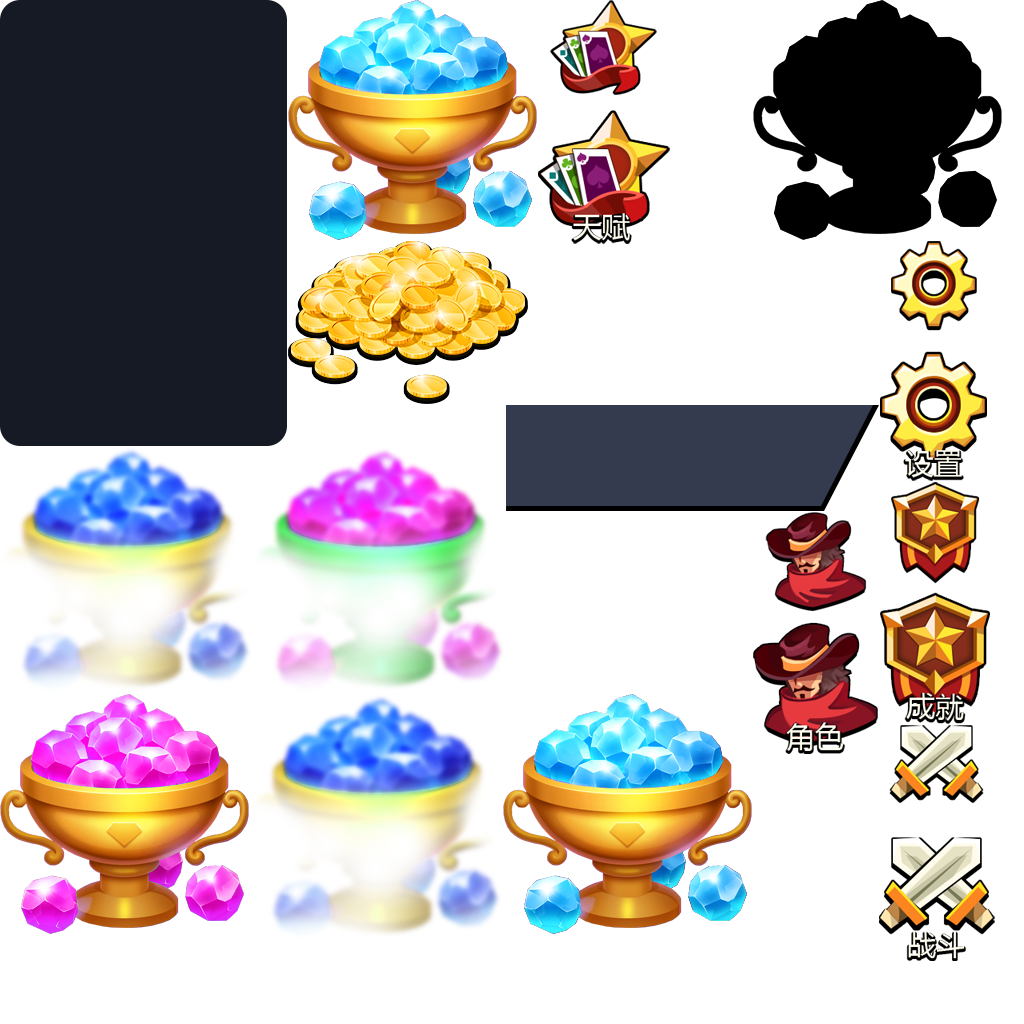
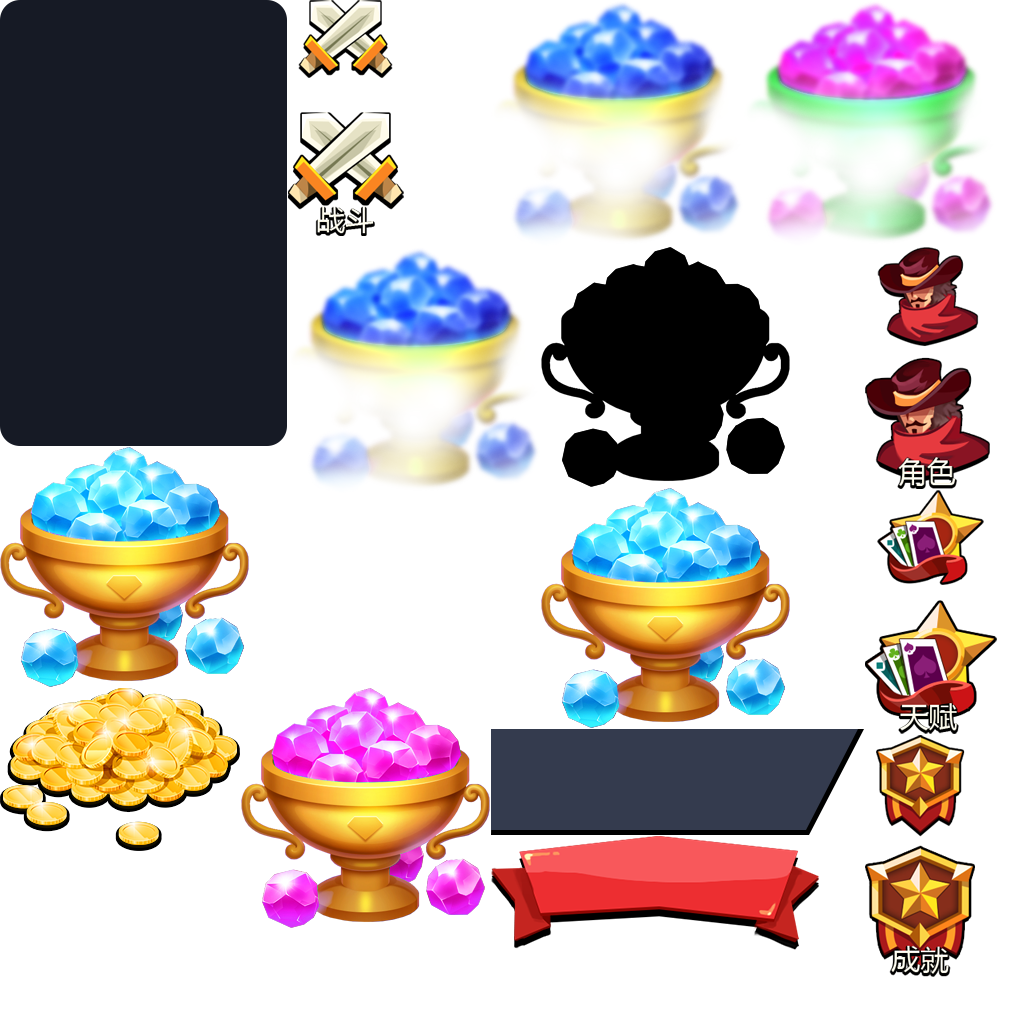
no message

diff --git a/Game3D01/src/ui/layaMaxUI.ts b/Game3D01/src/ui/layaMaxUI.ts
@@ -485,6 +485,34 @@ export module ui.test {
         }
     }
     REG("ui.test.newhandUI",newhandUI);
+    export class paihangUI extends Dialog {
+		public guanbi:Laya.Button;
+		public tab:Laya.Tab;
+		public list:Laya.List;
+		public wxOpen:laya.ui.WXOpenDataViewer;
+		public myText:laya.display.Text;
+        public static  uiView:any ={"type":"Dialog","props":{"width":750,"isShowEffect":false,"height":1334},"compId":2,"child":[{"type":"Image","props":{"y":109,"x":34,"width":682,"skin":"main/fuhuodi2.jpg","sizeGrid":"81,70,76,69","height":1073},"compId":3},{"type":"Button","props":{"y":123,"x":617,"width":80,"var":"guanbi","stateNum":1,"skin":"main/btn_guanbi.png","name":"close","height":80},"compId":4},{"type":"Sprite","props":{"y":119,"x":201,"texture":"main/changhong2.png"},"compId":5},{"type":"Sprite","props":{"y":119,"x":265,"texture":"paihang/paihangzi.png"},"compId":6},{"type":"Tab","props":{"y":252,"x":57,"var":"tab","stateNum":2,"space":30,"skin":"main/btn_anniu.png","labels":","},"compId":7},{"type":"Image","props":{"y":357,"x":57,"width":628,"skin":"main/tishilan.png","sizeGrid":"16,14,22,14","height":765,"alpha":0.6},"compId":11},{"type":"List","props":{"y":358,"x":0,"width":759,"var":"list","height":732},"compId":13,"child":[{"type":"paihang1","props":{"y":0,"x":0,"renderType":"render","runtime":"ui.test.paihang1UI"},"compId":14}]},{"type":"WXOpenDataViewer","props":{"y":358,"x":60,"width":627,"var":"wxOpen","iconSign":"wx","height":763,"runtime":"laya.ui.WXOpenDataViewer"},"compId":15},{"type":"Sprite","props":{"y":262.5,"x":116,"texture":"paihang/haoyouzi.png"},"compId":16},{"type":"Sprite","props":{"y":262.5,"x":339,"texture":"paihang/shijiezi.png"},"compId":18},{"type":"Text","props":{"y":1133,"x":525.5224609375,"var":"myText","text":"我的名次:11","fontSize":30,"color":"#ffffff","runtime":"laya.display.Text"},"compId":19}],"loadList":["main/fuhuodi2.jpg","main/btn_guanbi.png","main/changhong2.png","paihang/paihangzi.png","main/btn_anniu.png","main/tishilan.png","paihang/haoyouzi.png","paihang/shijiezi.png"],"loadList3D":[]};
+        constructor(){ super()}
+        createChildren():void {
+            super.createChildren();
+            this.createView(paihangUI.uiView);
+        }
+    }
+    REG("ui.test.paihangUI",paihangUI);
+    export class paihang1UI extends View {
+		public paiming:Laya.Image;
+		public touxiang:Laya.Image;
+		public mingzi:laya.display.Text;
+		public goldFc:Laya.FontClip;
+		public fc1:Laya.FontClip;
+        public static  uiView:any ={"type":"View","props":{"width":750,"height":92},"compId":2,"child":[{"type":"Image","props":{"y":3.5,"x":68,"var":"paiming","skin":"paihang/yiming.png"},"compId":3},{"type":"Image","props":{"y":4.5,"x":144,"width":77,"var":"touxiang","height":77},"compId":4},{"type":"Sprite","props":{"y":90,"x":71,"width":600,"texture":"paihang/xiaoxi.png"},"compId":5},{"type":"Text","props":{"y":25,"x":224,"width":283,"var":"mingzi","text":"玩家弓箭七个字","height":36,"fontSize":36,"color":"#ffffff","bold":true,"runtime":"laya.display.Text"},"compId":6},{"type":"FontClip","props":{"y":22,"x":487.5,"width":364,"var":"goldFc","value":"9999","spaceX":0,"skin":"main/clipshuzi.png","sheet":"123456 7890-+ /:%.ab","scaleY":0.4,"scaleX":0.4,"height":113,"align":"right"},"compId":7},{"type":"Sprite","props":{"y":22,"x":632.5,"texture":"paihang/fen.png"},"compId":8},{"type":"FontClip","props":{"y":23,"x":29.5,"width":364,"var":"fc1","value":"10","spaceX":0,"skin":"main/clipshuzi.png","sheet":"123456 7890-+ /:%.ab","scaleY":0.4,"scaleX":0.4,"height":113,"align":"center"},"compId":9}],"loadList":["paihang/yiming.png","paihang/xiaoxi.png","main/clipshuzi.png","paihang/fen.png"],"loadList3D":[]};
+        constructor(){ super()}
+        createChildren():void {
+            super.createChildren();
+            this.createView(paihang1UI.uiView);
+        }
+    }
+    REG("ui.test.paihang1UI",paihang1UI);
     export class RankCellUI extends View {
 		public bg:Laya.Image;
 		public di:Laya.Image;
@@ -746,7 +774,8 @@ export module ui.test {
 		public btn1Fc:Laya.FontClip;
 		public AdLingBtn:Laya.Button;
 		public btn2Fc:Laya.FontClip;
-        public static  uiView:any ={"type":"Dialog","props":{"width":750,"isModal":true,"height":1100},"compId":2,"child":[{"type":"Light","props":{"y":481.5,"x":356,"var":"light","scaleY":2,"scaleX":2,"anchorY":0.5,"anchorX":0.5,"runtime":"ui.test.LightUI"},"compId":30},{"type":"Image","props":{"y":37,"x":34,"width":682,"skin":"main/fuhuodi2.jpg","sizeGrid":"81,70,76,69","height":931},"compId":3},{"type":"Image","props":{"y":223,"x":174,"skin":"main/jiangbi.png","scaleY":0.8,"scaleX":0.8},"compId":7},{"type":"Image","props":{"y":459,"x":55,"width":642,"skin":"main/tishilan.png","sizeGrid":"28,18,26,20","height":406,"alpha":0.3},"compId":9},{"type":"FontClip","props":{"y":313,"x":397,"width":535,"var":"goldFc","value":"99999","spaceX":0,"skin":"main/clipshuzi.png","sheet":"123456 7890-+ /:%.ab","scaleY":0.4,"scaleX":0.4,"height":113,"align":"left"},"compId":10},{"type":"Button","props":{"y":583,"x":378,"width":434,"var":"LingBtn","stateNum":1,"skin":"main/btn_huang.png","sizeGrid":"0,19,0,18","height":94,"anchorY":0.5,"anchorX":0.5},"compId":11,"child":[{"type":"Sprite","props":{"y":17,"x":62,"texture":"timegold/shenglilingqu.png"},"compId":13},{"type":"FontClip","props":{"y":15,"x":157,"var":"btn1Fc","value":"99999","skin":"main/clipshuzi.png","sheet":"123456 7890ab cdef","scaleY":0.4,"scaleX":0.4,"align":"left"},"compId":14},{"type":"Sprite","props":{"y":10,"x":329,"texture":"main/jinbi.png"},"compId":31}]},{"type":"Button","props":{"y":732,"x":380,"width":439,"var":"AdLingBtn","stateNum":1,"skin":"main/btn_zi.png","sizeGrid":"0,31,0,36","height":94,"anchorY":0.5,"anchorX":0.5},"compId":15,"child":[{"type":"FontClip","props":{"y":16,"x":154,"width":451,"var":"btn2Fc","value":"99999","spaceX":-4,"skin":"main/clipshuzi.png","sheet":"123456 7890ab cdefg","scaleY":0.4,"scaleX":0.4,"height":113,"align":"left"},"compId":17},{"type":"Sprite","props":{"y":4.5,"x":79,"texture":"main/action.png"},"compId":32},{"type":"Sprite","props":{"y":12.5,"x":330,"texture":"main/jinbi.png"},"compId":33}]},{"type":"Button","props":{"y":51.5,"x":617,"width":80,"stateNum":1,"skin":"timegold/btn_guanbi.png","name":"close","height":80},"compId":21},{"type":"Text","props":{"y":205,"x":300,"text":"您赚取了","fontSize":36,"color":"#ffffff","bold":true,"runtime":"laya.display.Text"},"compId":22},{"type":"Image","props":{"y":68,"x":248,"skin":"timegold/biaoti_jinbi.png"},"compId":29}],"loadList":["main/fuhuodi2.jpg","main/jiangbi.png","main/tishilan.png","main/clipshuzi.png","main/btn_huang.png","timegold/shenglilingqu.png","main/jinbi.png","main/btn_zi.png","main/action.png","timegold/btn_guanbi.png","timegold/biaoti_jinbi.png"],"loadList3D":[]};
+		public guanbi:Laya.Button;
+        public static  uiView:any ={"type":"Dialog","props":{"width":750,"isModal":true,"height":1100},"compId":2,"child":[{"type":"Light","props":{"y":481.5,"x":356,"var":"light","scaleY":2,"scaleX":2,"anchorY":0.5,"anchorX":0.5,"runtime":"ui.test.LightUI"},"compId":30},{"type":"Image","props":{"y":37,"x":34,"width":682,"skin":"main/fuhuodi2.jpg","sizeGrid":"81,70,76,69","height":931},"compId":3},{"type":"Image","props":{"y":272,"x":193,"skin":"timegold/jinbidai.png"},"compId":7},{"type":"Image","props":{"y":459,"x":55,"width":642,"skin":"main/tishilan.png","sizeGrid":"28,18,26,20","height":406,"alpha":0.3},"compId":9},{"type":"FontClip","props":{"y":326,"x":364,"var":"goldFc","value":"99999","spaceX":0,"skin":"main/clipshuzi.png","sheet":"123456 7890-+ /:%.ab","scaleY":0.4,"scaleX":0.4},"compId":10},{"type":"Button","props":{"y":583,"x":378,"width":434,"var":"LingBtn","stateNum":1,"skin":"main/btn_huang.png","sizeGrid":"0,19,0,18","height":94,"anchorY":0.5,"anchorX":0.5},"compId":11,"child":[{"type":"Sprite","props":{"y":17,"x":62,"texture":"timegold/shenglilingqu.png"},"compId":13},{"type":"FontClip","props":{"y":15,"x":157,"var":"btn1Fc","value":"99999","skin":"main/clipshuzi.png","sheet":"123456 7890ab cdef","scaleY":0.4,"scaleX":0.4,"align":"left"},"compId":14},{"type":"Sprite","props":{"y":10,"x":329,"texture":"main/jinbi.png"},"compId":31}]},{"type":"Button","props":{"y":732,"x":380,"width":439,"var":"AdLingBtn","stateNum":1,"skin":"main/btn_zi.png","sizeGrid":"0,31,0,36","height":94,"anchorY":0.5,"anchorX":0.5},"compId":15,"child":[{"type":"FontClip","props":{"y":16,"x":154,"width":451,"var":"btn2Fc","value":"99999","spaceX":-4,"skin":"main/clipshuzi.png","sheet":"123456 7890ab cdefg","scaleY":0.4,"scaleX":0.4,"height":113,"align":"left"},"compId":17},{"type":"Sprite","props":{"y":4.5,"x":79,"texture":"main/action.png"},"compId":32},{"type":"Sprite","props":{"y":12.5,"x":330,"texture":"main/jinbi.png"},"compId":33}]},{"type":"Button","props":{"y":51.5,"x":617,"width":80,"var":"guanbi","stateNum":1,"skin":"main/btn_guanbi.png","name":"close","height":80},"compId":21},{"type":"Text","props":{"y":205,"x":300,"text":"您赚取了","fontSize":36,"color":"#ffffff","bold":true,"runtime":"laya.display.Text"},"compId":22},{"type":"Image","props":{"y":68,"x":248,"skin":"timegold/biaoti_jinbi.png"},"compId":29}],"loadList":["main/fuhuodi2.jpg","timegold/jinbidai.png","main/tishilan.png","main/clipshuzi.png","main/btn_huang.png","timegold/shenglilingqu.png","main/jinbi.png","main/btn_zi.png","main/action.png","main/btn_guanbi.png","timegold/biaoti_jinbi.png"],"loadList3D":[]};
         constructor(){ super()}
         createChildren():void {
             super.createChildren();
@@ -784,7 +813,7 @@ export module ui.test {
 		public cengshuTxt:Laya.Label;
 		public titleTxt:Laya.Sprite;
 		public suo:Laya.Sprite;
-        public static  uiView:any ={"type":"View","props":{"width":750,"height":710},"compId":2,"child":[{"type":"Image","props":{"y":27,"x":176,"skin":"main/changhong.png"},"compId":4},{"type":"Button","props":{"y":204,"x":31.5,"var":"mapBtn","stateNum":1,"skin":"main/erdao.png"},"compId":3},{"type":"Label","props":{"y":108,"x":248,"width":245,"var":"cengshuTxt","text":"最高层数","height":36,"fontSize":36,"color":"#f6ecec","align":"center"},"compId":6},{"type":"Sprite","props":{"y":35,"x":304,"var":"titleTxt","texture":"main/shamolvzhou.png"},"compId":7},{"type":"Sprite","props":{"y":372.5,"x":334.5,"var":"suo","texture":"main/suo2.png"},"compId":8},{"type":"Box","props":{"y":702,"x":5,"width":739},"compId":27,"child":[{"type":"Sprite","props":{"texture":"main/xuxian.png"},"compId":10},{"type":"Sprite","props":{"x":50,"texture":"main/xuxian.png"},"compId":12},{"type":"Sprite","props":{"x":100,"texture":"main/xuxian.png"},"compId":13},{"type":"Sprite","props":{"x":150,"texture":"main/xuxian.png"},"compId":14},{"type":"Sprite","props":{"x":200,"texture":"main/xuxian.png"},"compId":15},{"type":"Sprite","props":{"x":250,"texture":"main/xuxian.png"},"compId":16},{"type":"Sprite","props":{"x":300,"texture":"main/xuxian.png"},"compId":17},{"type":"Sprite","props":{"x":350,"texture":"main/xuxian.png"},"compId":18},{"type":"Sprite","props":{"x":400,"texture":"main/xuxian.png"},"compId":19},{"type":"Sprite","props":{"x":450,"texture":"main/xuxian.png"},"compId":20},{"type":"Sprite","props":{"x":500,"texture":"main/xuxian.png"},"compId":21},{"type":"Sprite","props":{"x":550,"texture":"main/xuxian.png"},"compId":22},{"type":"Sprite","props":{"x":600,"texture":"main/xuxian.png"},"compId":23},{"type":"Sprite","props":{"x":650,"texture":"main/xuxian.png"},"compId":24},{"type":"Sprite","props":{"x":700,"texture":"main/xuxian.png"},"compId":28}]}],"loadList":["main/changhong.png","main/erdao.png","main/shamolvzhou.png","main/suo2.png","main/xuxian.png"],"loadList3D":[]};
+        public static  uiView:any ={"type":"View","props":{"width":750,"height":710},"compId":2,"child":[{"type":"Image","props":{"y":27,"x":176,"skin":"main/changhong.png"},"compId":4},{"type":"Button","props":{"y":147,"x":33,"var":"mapBtn","stateNum":1,"skin":"main/erdao.png"},"compId":3},{"type":"Label","props":{"y":108,"x":248,"width":245,"var":"cengshuTxt","text":"最高层数","height":36,"fontSize":36,"color":"#f6ecec","align":"center"},"compId":6},{"type":"Sprite","props":{"y":35,"x":304,"var":"titleTxt","texture":"main/shamolvzhou.png"},"compId":7},{"type":"Sprite","props":{"y":372.5,"x":334.5,"var":"suo","texture":"main/suo2.png"},"compId":8},{"type":"Box","props":{"y":702,"x":5,"width":739},"compId":27,"child":[{"type":"Sprite","props":{"texture":"main/xuxian.png"},"compId":10},{"type":"Sprite","props":{"x":50,"texture":"main/xuxian.png"},"compId":12},{"type":"Sprite","props":{"x":100,"texture":"main/xuxian.png"},"compId":13},{"type":"Sprite","props":{"x":150,"texture":"main/xuxian.png"},"compId":14},{"type":"Sprite","props":{"x":200,"texture":"main/xuxian.png"},"compId":15},{"type":"Sprite","props":{"x":250,"texture":"main/xuxian.png"},"compId":16},{"type":"Sprite","props":{"x":300,"texture":"main/xuxian.png"},"compId":17},{"type":"Sprite","props":{"x":350,"texture":"main/xuxian.png"},"compId":18},{"type":"Sprite","props":{"x":400,"texture":"main/xuxian.png"},"compId":19},{"type":"Sprite","props":{"x":450,"texture":"main/xuxian.png"},"compId":20},{"type":"Sprite","props":{"x":500,"texture":"main/xuxian.png"},"compId":21},{"type":"Sprite","props":{"x":550,"texture":"main/xuxian.png"},"compId":22},{"type":"Sprite","props":{"x":600,"texture":"main/xuxian.png"},"compId":23},{"type":"Sprite","props":{"x":650,"texture":"main/xuxian.png"},"compId":24},{"type":"Sprite","props":{"x":700,"texture":"main/xuxian.png"},"compId":28}]}],"loadList":["main/changhong.png","main/erdao.png","main/shamolvzhou.png","main/suo2.png","main/xuxian.png"],"loadList3D":[]};
         constructor(){ super()}
         createChildren():void {
             super.createChildren();

diff --git a/Game3D01/src/main/scene/main/rank/RankDialog.ts b/Game3D01/src/main/scene/main/rank/RankDialog.ts
@@ -1,7 +1,118 @@
 import { ui } from "../../../../ui/layaMaxUI";
+import SdkManager from "../../../../core/manager/SdkManager";
+import App from "../../../../core/App";
+import Session from "../../../Session";
 
-export default class RankDialog extends ui.test.RankDialogUI{
+export default class RankDialog extends ui.test.paihangUI{
     constructor(){
         super();
+        this.list.vScrollBarSkin = "";
+        this.tab.selectHandler = new Laya.Handler( this,this.selectFun );
+        this.tab.selectedIndex = -1;
+        this.tab.selectedIndex = 0;
+        this.list.renderHandler = new Laya.Handler( this,this.renderFun );
+        this.list.selectEnable = true;
+        this.list.selectHandler = new Laya.Handler( this,this.listSelectFun );
+        if( Laya.Browser.onMiniGame == false ){
+            return;
+        }
+        if( App.sdkManager.haveRight ){
+            return;    
+        }else{
+            this.tab.disabled = true;
+            Laya.timer.callLater( this,this.shouQuan );
+        }
+    }
+
+    public shouQuan():void{
+        App.sdkManager.addUserInfoBtn( <any>this.tab , new Laya.Handler(this,this.useFun ) );
+    }
+
+    /**
+     * 授权成功
+     */
+    public useFun():void {
+        Session.rankData.saveWorldRank();
+        this.tab.disabled = false;
+        this.tab.selectedIndex = 1;
+    }
+
+    public listSelectFun(index:number):void{
+        if( index == -1 ){
+            return;
+        }
+        // let obj = this.dialog.list.getItem(index);
+        // App.dialog( MyGameInit.RANK_INFO , false , obj );
+        // this.dialog.list.selectedIndex = -1;
+    }
+
+    public rankSkin:Array<string> = ["paihang/yiming.png","paihang/erming.png","paihang/sanming.png"];
+
+    public renderFun(cell:ui.test.paihang1UI , index:number):void{
+        let obj = this.list.getItem(index);
+        cell.goldFc.value = parseInt( obj.score + "" ) + "";
+        cell.mingzi.text = obj.name;
+        let rank = parseInt( obj.rank );
+        cell.touxiang.skin = obj.url;
+        if( rank < 3 ){
+            cell.fc1.visible = false;
+            cell.paiming.visible = true;
+            cell.paiming.skin = this.rankSkin[rank];
+        }else{
+            cell.fc1.visible = true;
+            cell.paiming.visible = false;
+            cell.fc1.value = (rank + 1) + "";
+        }
+    }
+
+    public selectFun( index:number ):void{
+        if( index == -1 ){
+            return;
+        }
+        this["tab" + index]();
+    }
+
+    public tab0():void {
+        this.wxOpen.visible = true;
+        this.list.visible = false;
+        this.myText.visible = false;
+        if( Laya.Browser.onMiniGame == false ){
+            return;
+        }
+        var obj:any = {};
+        obj.type = 0;
+        obj.openId = Session.SKEY;
+        Laya.Browser.window.wx.getOpenDataContext().postMessage(obj);
+    }
+
+    public tab1():void {
+        this.list.array = [];
+        this.wxOpen.visible = false;
+        this.list.visible = true;
+        this.myText.visible = true;
+        Session.rankData.getRank(  this, this.rankFun  );
+    }
+
+    public rankFun( str:string ):void{
+        if( this.tab.selectedIndex != 1 ){
+            return;
+        }
+        let obj = JSON.parse( str );
+        let myobj = obj.my;
+        let arr:Array<any> = obj.list;
+        this.list.array = arr;
+        let rank = parseInt(myobj.rank) + 1;
+        this.myText.text = "当前排名:" + rank;
+    }
+
+    public sortList( arr:Array<any> ):void{
+        arr.sort( this.sortFun );
+        for( let i:number = 0; i < arr.length; i++ ){
+            arr[i].rank = i;
+        }
+    }
+
+    private sortFun( a , b ):number{
+        return parseInt(b.score) - parseInt(a.score);
     }
 }

diff --git a/Game3D01/src/main/GameMain.ts b/Game3D01/src/main/GameMain.ts
@@ -78,6 +78,6 @@ export default class GameMain {
 
     public static initDialog():void{
         App.dialogManager.register( GameMain.TIME_GOLD , TimeGoldDialog , ["res/atlas/timegold.atlas"] );
-        App.dialogManager.register( GameMain.RANK_DIALOG , RankDialog , ["res/atlas/rank.atlas"] );
+        App.dialogManager.register( GameMain.RANK_DIALOG , RankDialog , ["res/atlas/paihang.atlas"] );
     }
 }

diff --git a/Game3D01/src/game/data/RankData.ts b/Game3D01/src/game/data/RankData.ts
@@ -28,6 +28,7 @@ export default class RankData implements IData{
         obj.name = "荒野女枪";
         obj.scorestr = Session.homeData.chapterId;
         obj.url = "chengjiu/xiao.png";
+        obj.item = 0;
         if( Laya.Browser.onMiniGame == false ){
             App.http( App.serverIP + "gamex3/saveRank" , obj , "post" );
             return;

diff --git a/Game3D01/src/GameConfig.ts b/Game3D01/src/GameConfig.ts
@@ -10,7 +10,7 @@ export default class GameConfig{
     static screenMode:string="none";
     static alignV:string="top";
     static alignH:string="left";
-    static startScene:any="test/world.scene";
+    static startScene:any="test/paihang.scene";
     static sceneRoot:string="";
     static debug:boolean=false;
     static stat:boolean=true;

diff --git a/Game3D01/src/core/manager/DialogManager.ts b/Game3D01/src/core/manager/DialogManager.ts
@@ -18,7 +18,7 @@ export default class DialogManager{
         let arr = this.dialogMap[dialogName];
         let dc = arr[0];
         let a:Laya.Dialog = new dc();
-        a.popup( true, true );
+        a.popup(true,a.isShowEffect);
         a.once( Laya.Event.UNDISPLAY , this,this.undisFun , [a] );
     }
 

diff --git a/Game3D01/src/core/App.ts b/Game3D01/src/core/App.ts
@@ -67,7 +67,7 @@ export default class App{
             url = url + "?" + str;
             data = null;
         }
-        http.send(url,data,method);
+        http.send(url,str,method);
         if( caller && listener ){
             http.once(Laya.Event.COMPLETE,caller,listener,args );
         }
